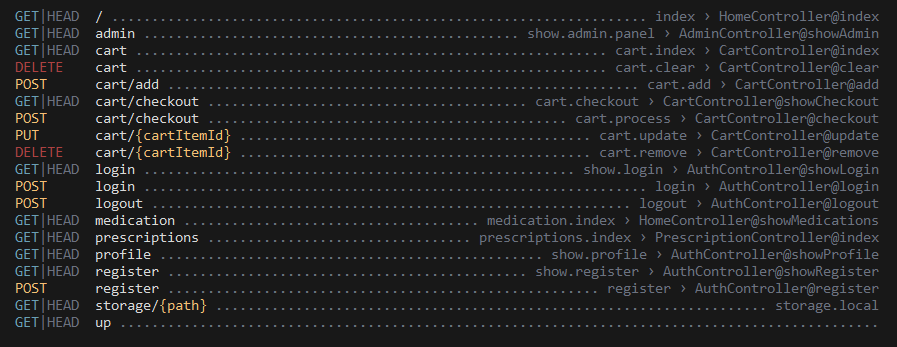
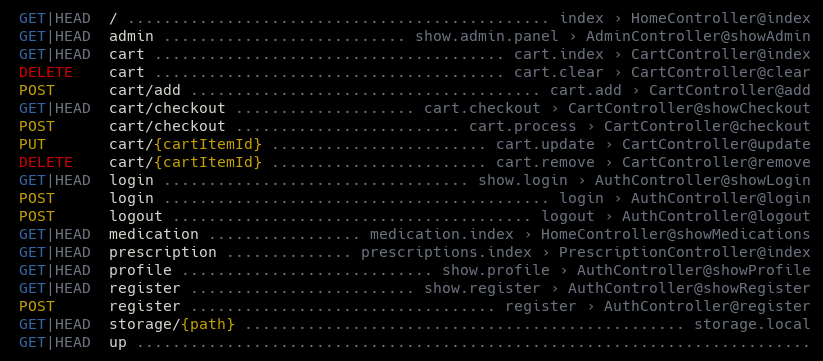
admin panel update

Changed region(s): [[0.0, 0.0288, 1.0, 0.9798]]

diff --git a/resources/views/admin/panel.blade.php b/resources/views/admin/panel.blade.php
@@ -13,7 +13,7 @@
             <div class="p-4">
                 <h1 class="text-xl font-bold text-white">Admin Panel</h1>
             </div>
-            
+
             <nav class="mt-6">
                 <div class="px-4 py-3 bg-gray-700 text-white rounded-md mx-3 flex items-center">
                     <svg class="w-5 h-5 mr-3" fill="none" stroke="currentColor" viewBox="0 0 24 24">
@@ -21,7 +21,7 @@
                     </svg>
                     Dashboard
                 </div>
-                
+
                 @foreach([
                     ['Users', 'M16 7a4 4 0 11-8 0 4 4 0 018 0zM12 14a7 7 0 00-7 7h14a7 7 0 00-7-7z'],
                     ['Products', 'M5 8h14M5 8a2 2 0 110-4h14a2 2 0 110 4M5 8v10a2 2 0 002 2h10a2 2 0 002-2V8m-9 4h4'],
@@ -36,7 +36,7 @@
                     {{ $title }}
                 </a>
                 @endforeach
-                
+
 
                 <form action="{{ url('/logout') }}" method="POST">
                     @csrf
@@ -56,7 +56,7 @@
         <main class="flex-1 p-8">
             <div class="flex justify-between items-center mb-8">
                 <h1 class="text-2xl font-semibold">Dashboard Overview</h1>
-                
+
                 <div class="flex items-center">
                     <div class="relative mr-4">
                         <input type="text" placeholder="Search..." class="bg-gray-800 rounded-lg px-4 py-2 focus:outline-none focus:ring-2 focus:ring-blue-500">
@@ -64,7 +64,7 @@
                             <path stroke-linecap="round" stroke-linejoin="round" stroke-width="2" d="M21 21l-6-6m2-5a7 7 0 11-14 0 7 7 0 0114 0z"></path>
                         </svg>
                     </div>
-                    
+
                     <div class="relative">
                         <button class="flex items-center bg-gray-800 rounded-lg px-4 py-2 focus:outline-none">
                             <img src="https://ui-avatars.com/api/?name=Admin+User" class="w-6 h-6 rounded-full mr-2" alt="User">
@@ -143,12 +143,14 @@
                         <button class="text-sm text-blue-400 hover:text-blue-300">View All</button>
                     </div>
                     <div class="space-y-4">
-                        @foreach(['John Doe', 'Jane Smith', 'Robert Johnson', 'Emily Davis', 'Michael Wilson'] as $name)
+                        @foreach($users as $user)
                         <div class="flex items-center">
-                            <img src="https://ui-avatars.com/api/?name={{ str_replace(' ', '+', $name) }}" class="w-10 h-10 rounded-full mr-4" alt="{{ $name }}">
+                            <img src="https://ui-avatars.com/api/?name={{ str_replace(' ', '+', $user->name) }}"
+                                 class="w-10 h-10 rounded-full mr-4"
+                                 alt="{{ $user->name }}">
                             <div>
-                                <p class="text-gray-200">{{ $name }}</p>
-                                <p class="text-sm text-gray-400">{{ strtolower(str_replace(' ', '.', $name)) }}@example.com</p>
+                                <p class="text-gray-200">{{ $user->name }}</p>
+                                <p class="text-sm text-gray-400">{{ strtolower(str_replace(' ', '.', $user->name)) }}@example.com</p>
                             </div>
                             <div class="ml-auto">
                                 <span class="px-2 py-1 text-xs rounded-full bg-green-500 bg-opacity-20 text-green-400">Active</span>
@@ -157,7 +159,8 @@
                         @endforeach
                     </div>
                 </div>
-            </div>
+
+            </section>
         </main>
     </div>
 </body>

diff --git a/app/Http/Controllers/AdminController.php b/app/Http/Controllers/AdminController.php
@@ -2,12 +2,17 @@
 
 namespace App\Http\Controllers;
 
+use App\Models\User;
+use Illuminate\Support\Facades\Auth;
+use Illuminate\Support\Facades\DB;
 use Illuminate\Http\Request;
 
 class AdminController extends Controller
 {
     public function showAdmin()
     {
-        return view('admin.panel');
+        $users = User::all();
+
+        return view('admin.panel', compact('users'));
     }
 }

diff --git a/routes/web.php b/routes/web.php
@@ -40,7 +40,7 @@ Route::middleware('auth')->controller(CartController::class)->group(function () 
 
 //Prescription
 Route::middleware('auth')->controller(PrescriptionController::class)->group(function () {
-    Route::get('/prescriptions', 'index')->name('prescriptions.index');
+    Route::get('/prescription', 'index')->name('prescriptions.index');
 });
 
 
